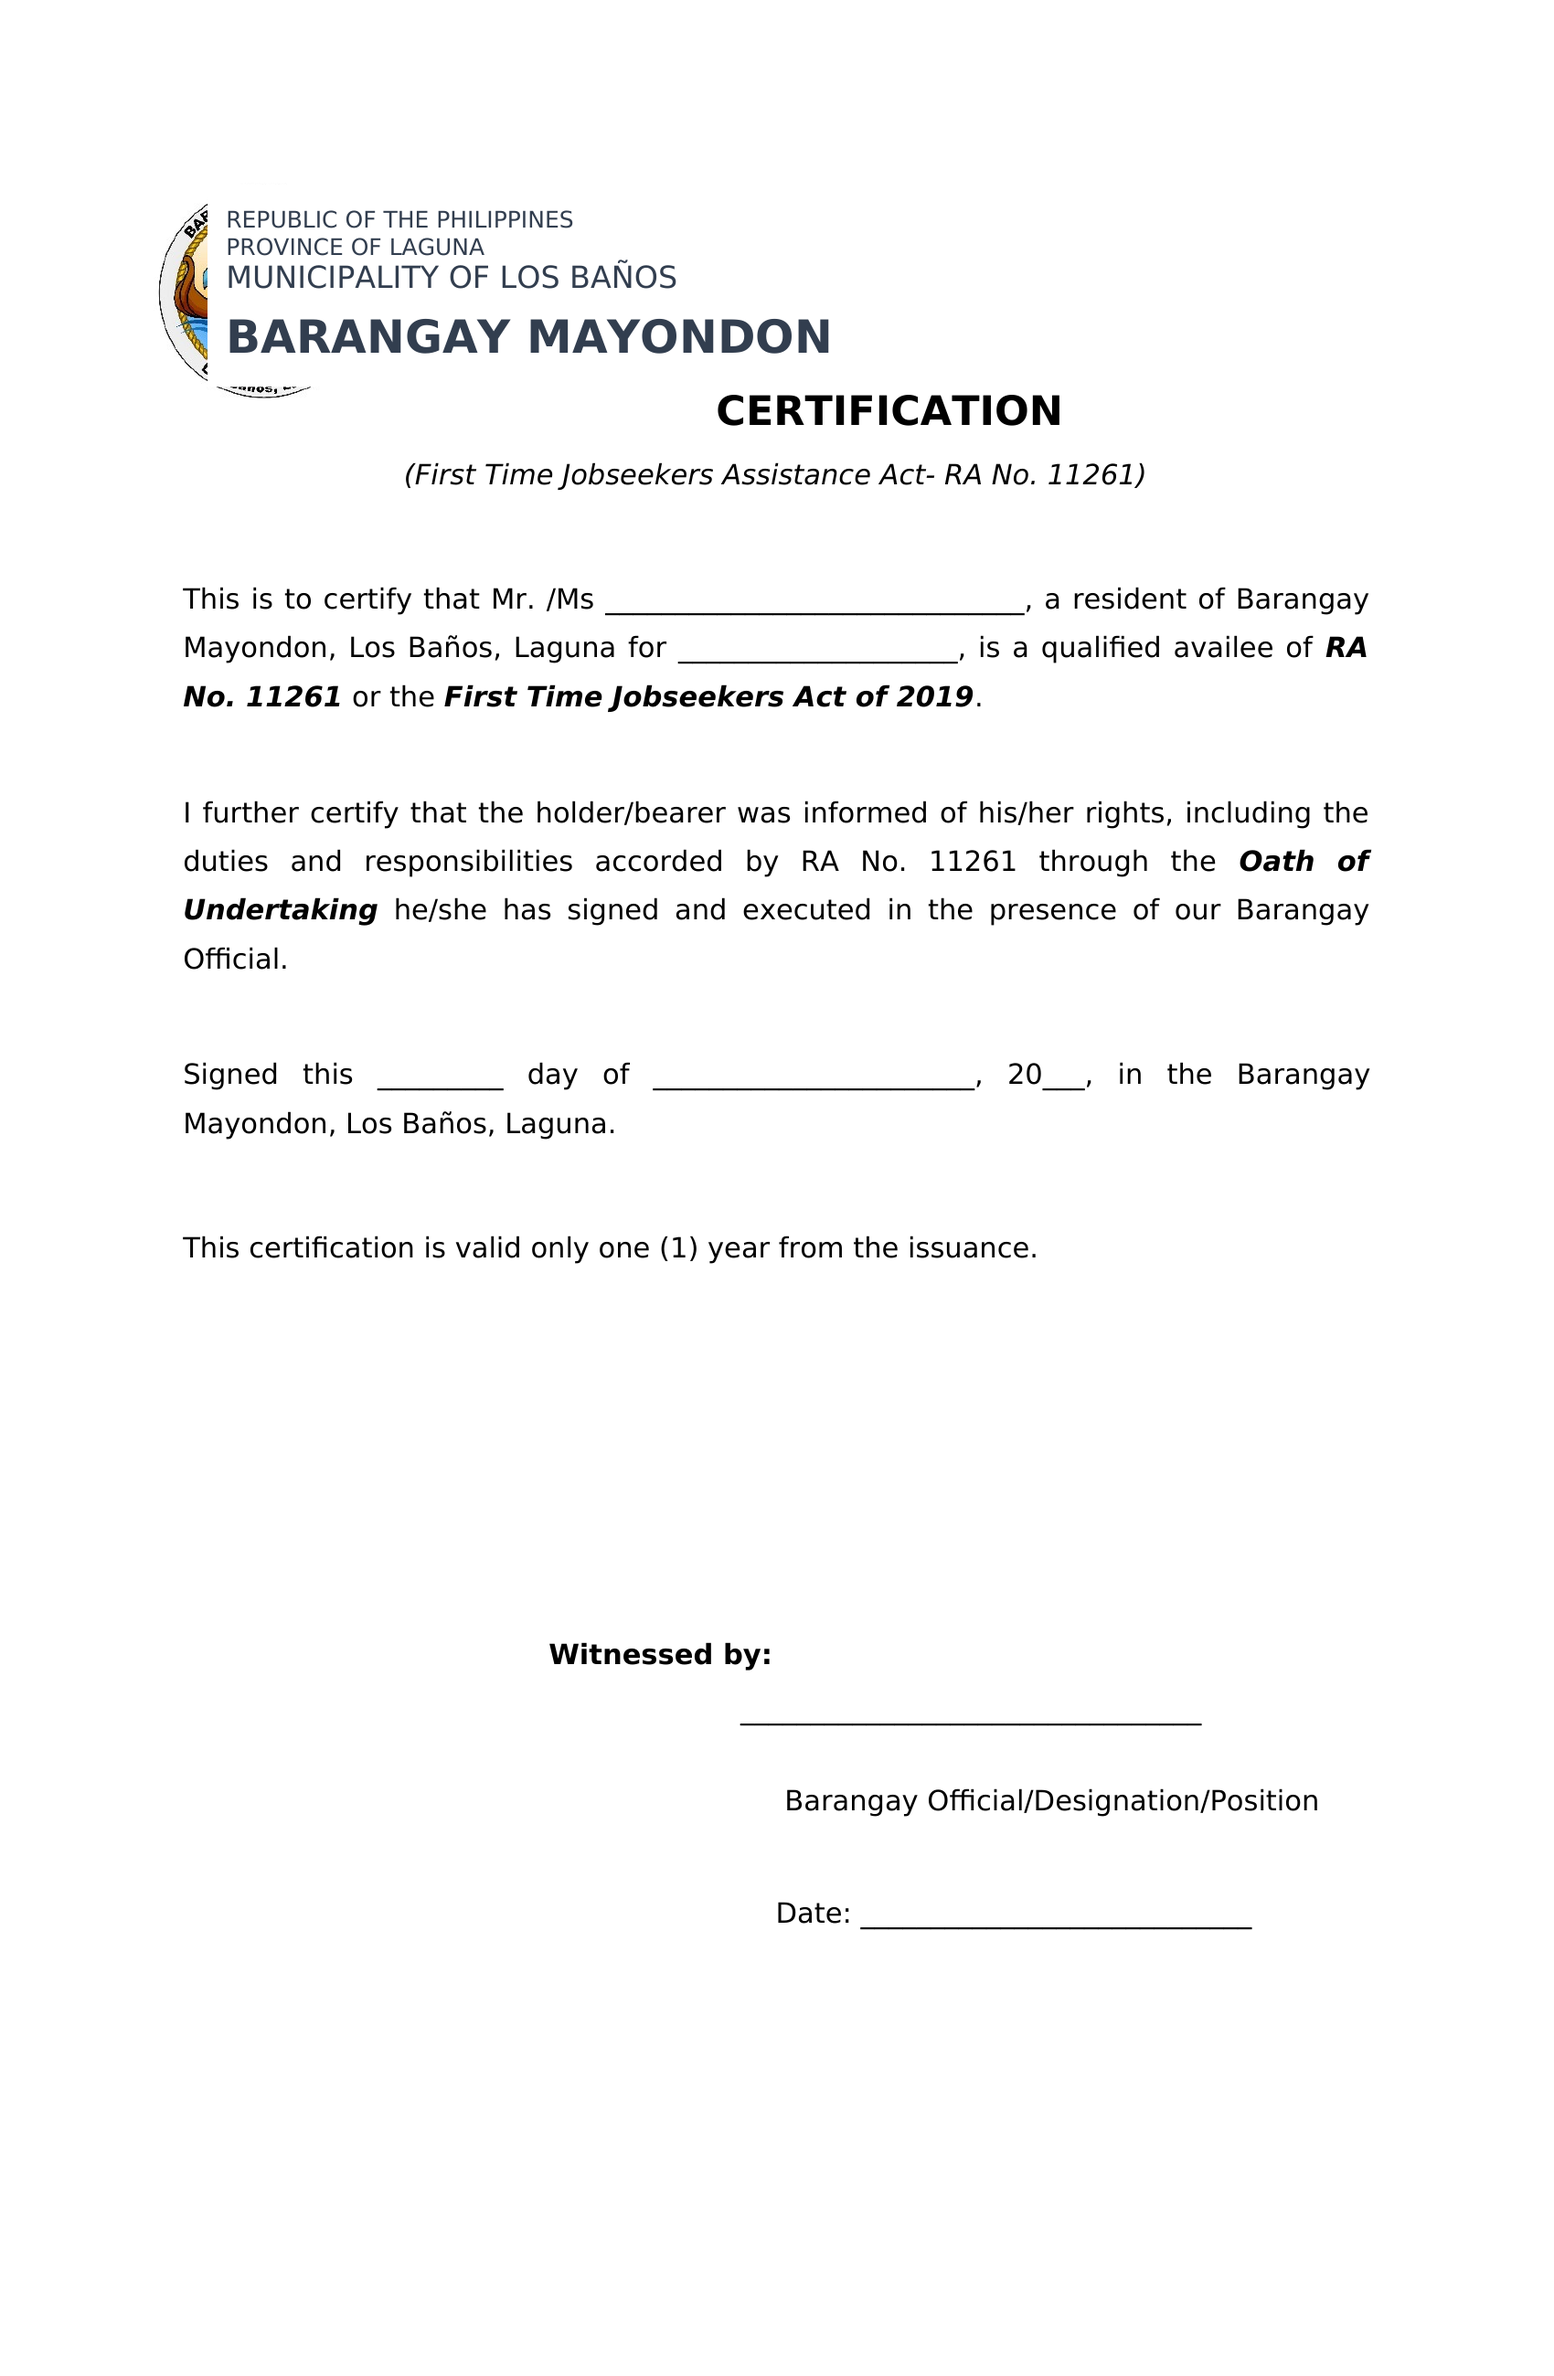
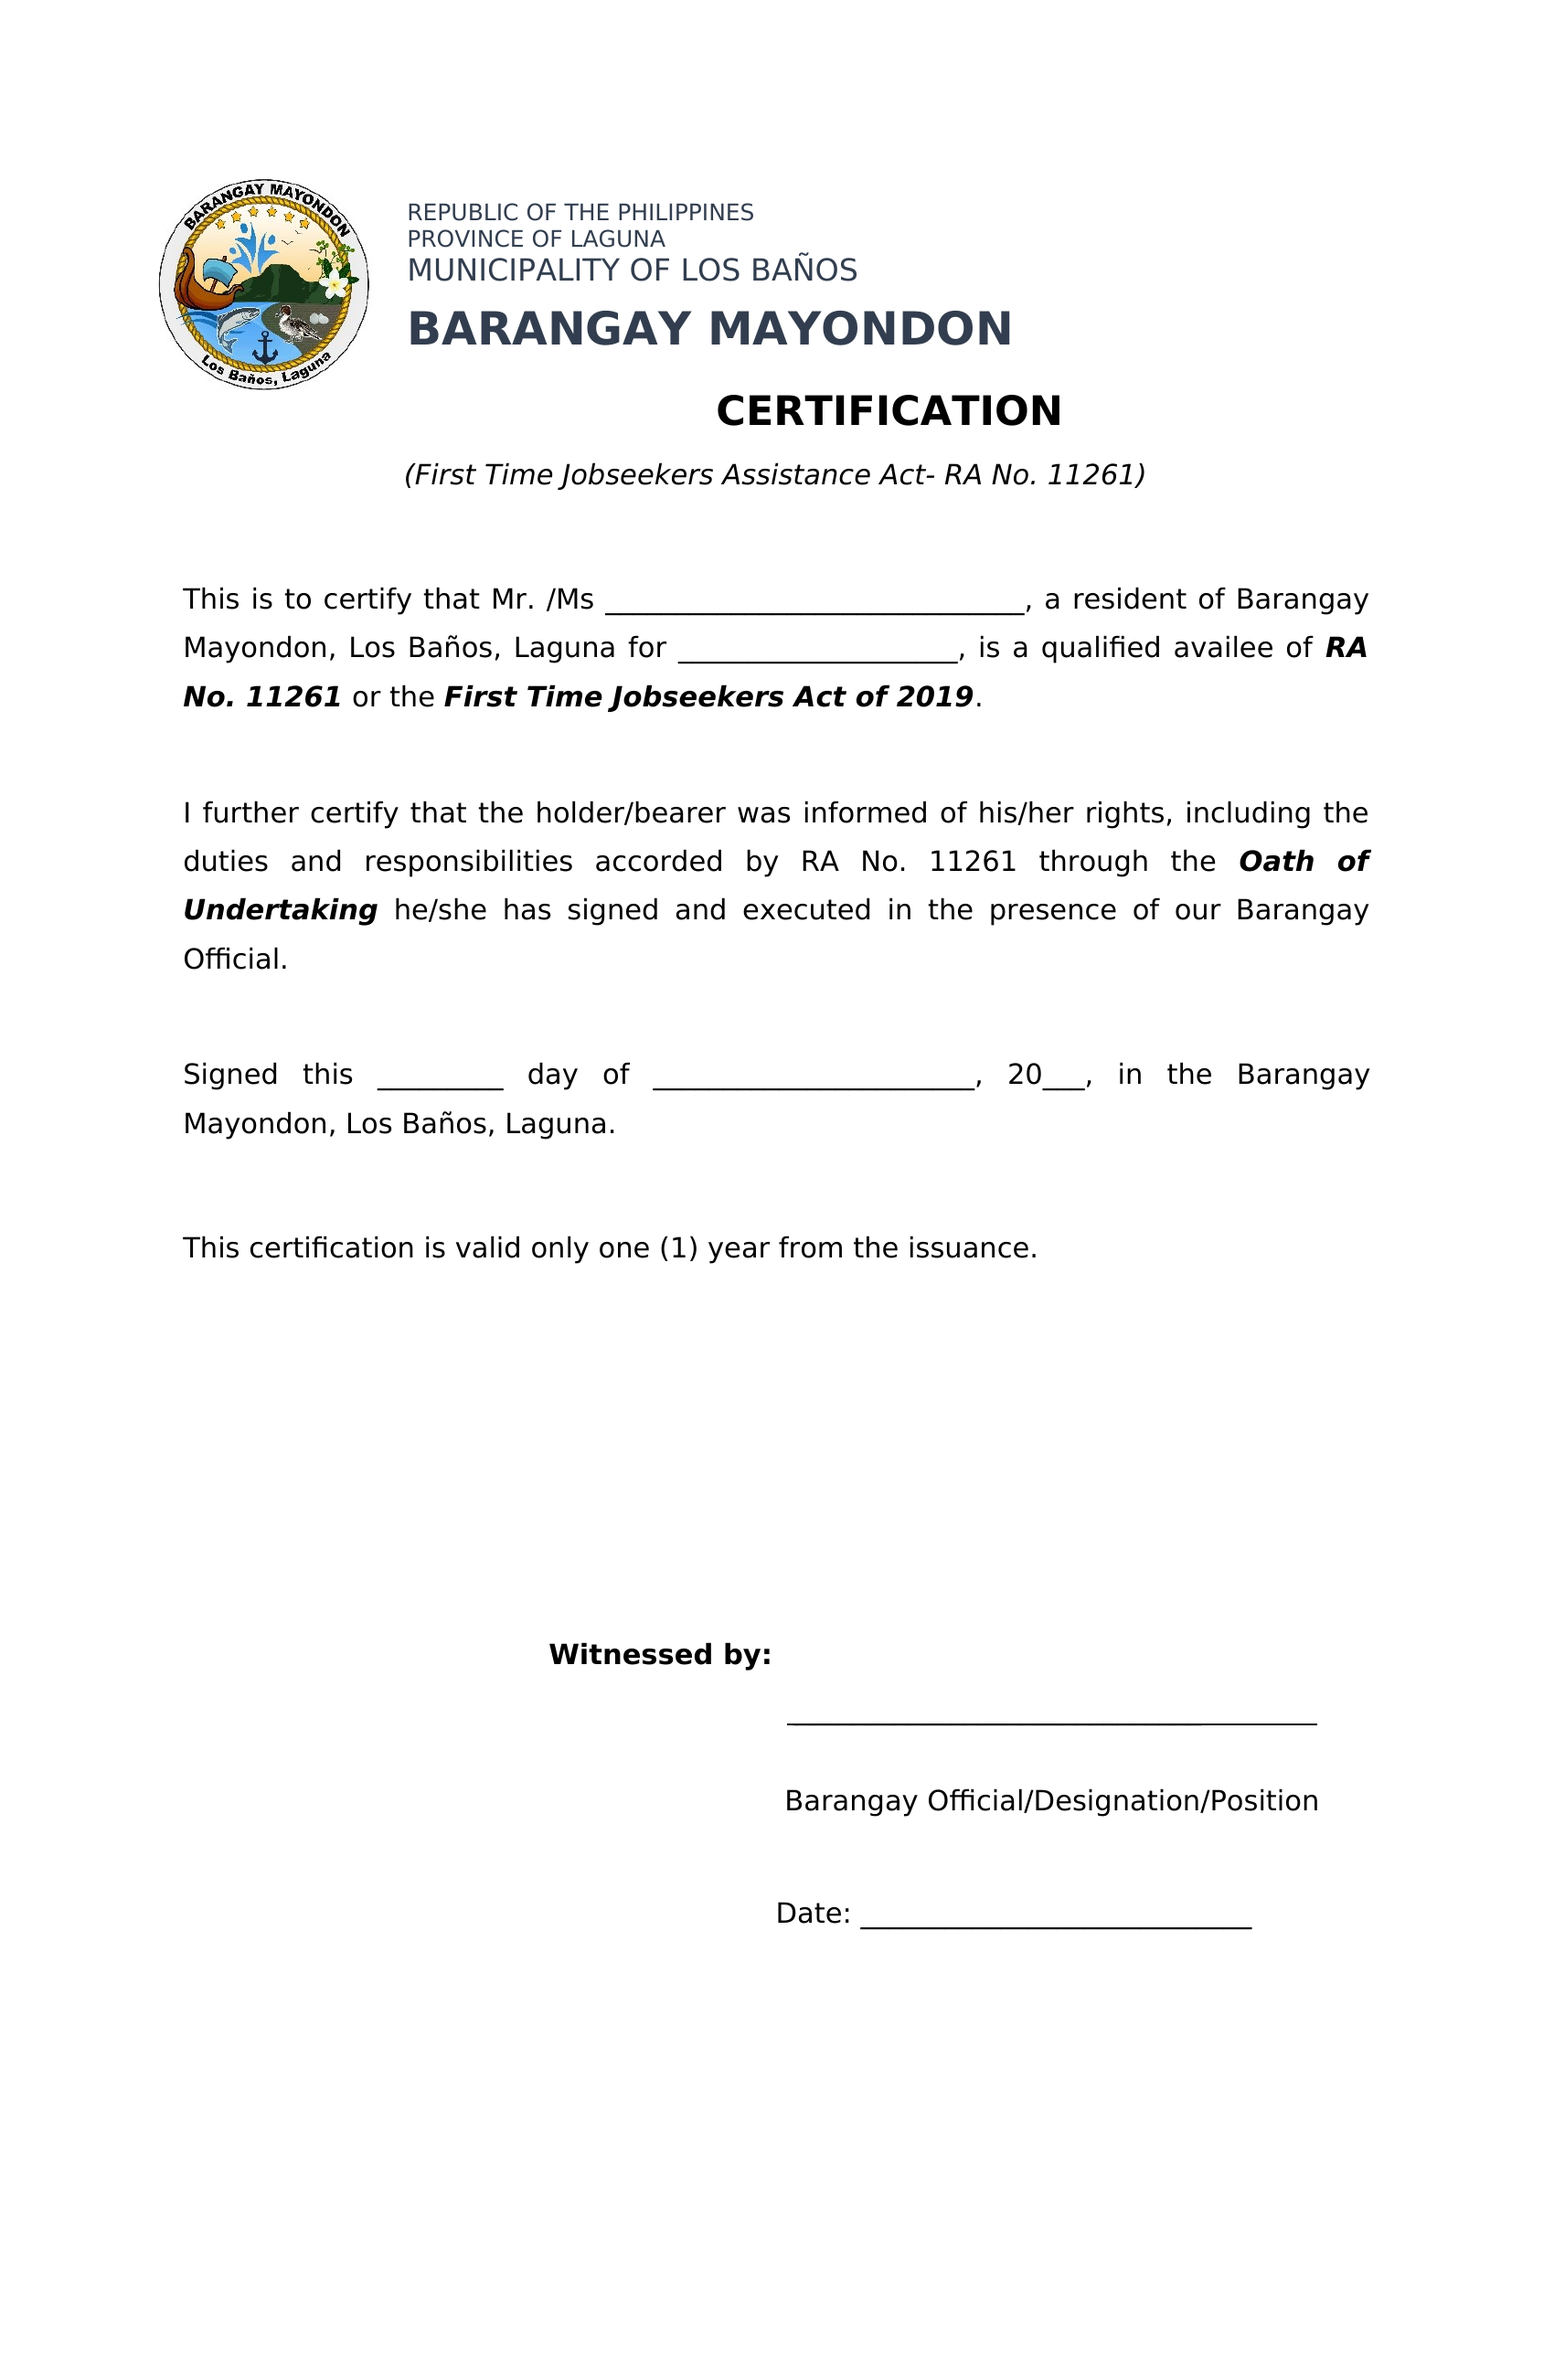
fix(print): Jobseeker page 3 header seal and witness block alignment

Changed region(s): [[0.0935, 0.0623, 0.6547, 0.1869]]

diff --git a/frontend/src/lib/print/templates.ts b/frontend/src/lib/print/templates.ts
@@ -351,12 +351,12 @@ export const printTemplates: Record<PrintTemplateId, PrintTemplate> = {
         size: 11,
         page: 2,
       },
-      // Oath: the witness name sits on the short rule after "Witnessed by:" (rule y 697.5, x 350-477); the Date follows the pre-printed "Date:" (rule y 763.7, x 105.5-259.6).
+      // Oath: the witness name sits on the rule after "Witnessed by:" (rule y 697.5, x 320.4-528.8, redrawn in patch 345 to be as wide and as centred as the label under it, as in the Word file where name, designation and label share one centre line, x 424.6); the Date follows the pre-printed "Date:" (rule y 763.7, x 105.5-259.6).
       {
         key: "witnessName",
-        x: 413,
+        x: 424.6,
         y: 687.3,
-        w: 190,
+        w: 206,
         align: "center",
         size: 11,
         page: 1,
@@ -364,20 +364,20 @@ export const printTemplates: Record<PrintTemplateId, PrintTemplate> = {
       // Designation of the witness, between the rule and "Barangay Official/Designation/Position" (label y 731.9-742.3).
       {
         key: "witnessDesignation",
-        x: 413,
+        x: 424.6,
         y: 716,
-        w: 190,
+        w: 206,
         align: "center",
         size: 11,
         page: 1,
       },
       { key: "date", x: 108, y: 753.5, w: 148, size: 11, page: 1 },
-      // Certification: the witness name sits on the rule under "Witnessed by:" (rule y 679.1, x 291.6-473.4); the Date follows the pre-printed "Date:" (rule y 759.2, x 338.8-493.2; the label and Date rows were moved down 14 pt in jobseeker-2.png, patch 343, to make room for the designation line as in the barangay's Word file).
+      // Certification: the witness name sits on the rule under "Witnessed by:" (rule y 679.1, x 310.0-518.4, redrawn in patch 345 to centre on the label, x 414.2); the Date follows the pre-printed "Date:" (rule y 759.2, x 338.8-493.2; the label and Date rows were moved down 14 pt in jobseeker-2.png, patch 343, to make room for the designation line as in the barangay's Word file).
       {
         key: "witnessName",
-        x: 382.5,
+        x: 414.2,
         y: 668.9,
-        w: 182,
+        w: 206,
         align: "center",
         size: 11,
         page: 2,
@@ -385,9 +385,9 @@ export const printTemplates: Record<PrintTemplateId, PrintTemplate> = {
       // Designation of the witness, between the rule (y 679.0) and the label, now at y 704.8-715.3.
       {
         key: "witnessDesignation",
-        x: 382.5,
+        x: 414.2,
         y: 690,
-        w: 182,
+        w: 206,
         align: "center",
         size: 11,
         page: 2,

diff --git a/docs/10-Decisions-Already-Made.md b/docs/10-Decisions-Already-Made.md
@@ -161,3 +161,4 @@ Open questions that remain (ID numbering, ID card layout, reprint behaviour, rea
 | 119 | **The First-Time Jobseeker Applicant sheet prints the resident's photo when one is on file (patch 341).** The barangay's Word file (`Barangay Certification of First Time Jobseekers.docx`) puts the applicant's photo under "Signature of Applicant", so the template has a `photo` box there (x 107.6, y 692.6, w 146.9, h 155.2 pt, page 0). Decision 118 still holds that New Issuance asks for no Photo step and a missing photo never blocks issuing; no photo on file prints nothing. Assumption, not a client answer: photo size follows the visible picture in the Word file (the file's picture is 3.0 x 2.2 in inline); confirm the size the barangay wants. In the Word file the OATH OF UNDERTAKING heading sits at the bottom of page 1; the app keeps it at the top of the Oath sheet. Not checked on paper. |
 | 120 | **The Jobseeker witness's designation prints from the Officials list; Jobseeker values are 11 pt (patch 343).** Accounts still have no position, so the designation under the witness name on the Oath and the Certification is the position of the current official whose first and last word match the witness (`isSamePerson`), or blank for handwriting. A witness who is not on the Officials list prints no designation; adding a position to accounts would need a migration. All typed Jobseeker values are 11 pt (the Word file's size; Cambria Bold stays the value font, the Word file uses Verdana). `jobseeker-2.png`: label and Date row moved down 14 pt for the designation line. Not checked on paper. |
 | 121 | **Jobseeker values print in Verdana Bold, lifted 1.5 pt off the rules (patch 344).** The barangay's Word file is Verdana throughout (11 pt values, 12 pt Course note); the packet printed Cambria Bold at the same size, which looks about a fifth smaller than the Verdana form text (smaller x-height) and was set exactly on the rule. Every `jobseeker` field now has `font: "form"` (`FORM_FONT` in `overlayStyles.ts`: Verdana, then DejaVu Sans) and `y` is lowered by `JOBSEEKER_LIFT` (1.5 pt). Width fitting measures with the field's own font. Other documents keep Cambria. Replaces the "we keep Cambria Bold" note of decision 120. Not checked: real Verdana on Windows, paper. |
+| 122 | **Jobseeker page 3 header and witness block (patch 345).** `jobseeker-2.png` had the seal clipped by a white text box (a LibreOffice artefact); the seal, the four header lines and their spacing were replaced by the unclipped block from the Word file rendered at 200 dpi, the title untouched. On the Oath and Certification the witness name, the designation and "Barangay Official/Designation/Position" share one centre line (x 424.6 Oath, 414.2 Certification, the label's centre, as in the Word file), and the witness rule was redrawn as wide as that label (about 208 pt) so a long name stays on it. Not checked: paper, real Verdana. |
